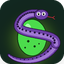
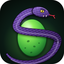
v2.2.3 - Ny ikon ritad i SVG och renderad med Edge: Ula'tek med fjäll, ormöga och huggtänder runt ett glödande grönt ägg. Logotyp i README, addonlistans ikon och GitHub-förhandsbild.

diff --git a/tools/make_icon.py b/tools/make_icon.py
@@ -1,25 +1,26 @@
-r"""Ritar UlatekEggs-ikonen: Ula'tek (orm) slingrad runt ett grönt ägg.
+r"""Bygger UlatekEggs-ikonen som SVG (Ula'tek slingrad runt ett glödande ägg)
+och renderar den till PNG med Edge headless.
 
-    python tools\make_icon.py
+    python tools/make_icon.py
 
-Skapar docs/logo.png (512x512), docs/social-preview.png (1280x640, laddas upp
-manuellt under GitHub > Settings > Social preview) och Media/icon.png (64x64,
-addonlistans ikon via ## IconTexture).
+Skapar docs/icon.svg, docs/logo.png (512), docs/social-preview.png (1280x640,
+laddas upp manuellt under GitHub > Settings > Social preview) och Media/icon.png
+(64, addonlistans ikon). Ormkroppen beräknas som en avsmalnande polygon längs
+en bezierkedja så att fyllning, gradient och fjällmönster kan läggas på i SVG.
 """
 import math
 import pathlib
+import subprocess
+import tempfile
+import time
 
-from PIL import Image, ImageDraw, ImageFilter, ImageFont
+from PIL import Image
 
 ROOT = pathlib.Path(__file__).resolve().parent.parent
-S = 4  # supersampling
-
-BG, GOO = (18, 40, 32), (120, 190, 40)
-SNAKE, SNAKE_DARK, SNAKE_BELLY = (108, 64, 165), (40, 20, 65), (160, 120, 210)
-EGG, EGG_DARK, EGG_LIGHT = (76, 220, 76), (20, 60, 20), (170, 250, 170)
+EDGE = r"C:\Program Files (x86)\Microsoft\Edge\Application\msedge.exe"
 
 
-def bezier(p0, p1, p2, p3, n=300):
+def bezier(p0, p1, p2, p3, n=120):
     pts = []
     for i in range(n + 1):
         t = i / n
@@ -29,98 +30,166 @@ def bezier(p0, p1, p2, p3, n=300):
     return pts
 
 
-def stroke(draw, pts, radii, color):
-    for (x, y), r in zip(pts, radii):
-        draw.ellipse((x - r, y - r, x + r, y + r), fill=color)
+def ribbon(pts, width_at):
+    """Polygon runt en mittlinje: bredd width_at(t) (t 0..1) per punkt."""
+    n = len(pts)
+    left, right = [], []
+    for i, (x, y) in enumerate(pts):
+        x0, y0 = pts[max(i - 1, 0)]
+        x1, y1 = pts[min(i + 1, n - 1)]
+        dx, dy = x1 - x0, y1 - y0
+        length = math.hypot(dx, dy) or 1
+        nx, ny = -dy / length, dx / length
+        w = width_at(i / (n - 1)) / 2
+        left.append((x + nx * w, y + ny * w))
+        right.append((x - nx * w, y - ny * w))
+    poly = left + right[::-1]
+    return "M " + " L ".join(f"{x:.1f},{y:.1f}" for x, y in poly) + " Z"
 
 
-def draw_art(size):
-    """Ikonen i given storlek (kvadrat), ritad i supersampling och nedskalad."""
-    W = size * S
-    im = Image.new("RGBA", (W, W), (0, 0, 0, 0))
-    d = ImageDraw.Draw(im)
-    u = W / 512  # enhet: 512-koordinater
+def centerline(pts):
+    return "M " + " L ".join(f"{x:.1f},{y:.1f}" for x, y in pts)
 
-    # bakgrund: rundad platta med grön goo-glöd
-    d.rounded_rectangle((0, 0, W - 1, W - 1), radius=90 * u, fill=BG)
-    glow = Image.new("RGBA", (W, W), (0, 0, 0, 0))
-    gd = ImageDraw.Draw(glow)
-    gd.ellipse((60 * u, 120 * u, 452 * u, 512 * u), fill=GOO + (150,))
-    glow = glow.filter(ImageFilter.GaussianBlur(70 * u))
-    im.alpha_composite(glow)
-    d = ImageDraw.Draw(im)
 
-    # ormens bana: bakre del (bakom ägget) och främre del (framför)
-    back = bezier((70 * u, 440 * u), (150 * u, 520 * u), (380 * u, 500 * u), (445 * u, 350 * u))
-    front = bezier((445 * u, 350 * u), (470 * u, 250 * u), (110 * u, 290 * u), (150 * u, 190 * u)) + \
-        bezier((150 * u, 190 * u), (175 * u, 120 * u), (260 * u, 90 * u), (330 * u, 118 * u))[1:]
-    n_back, n_front = len(back), len(front)
-    r_back = [(6 + 26 * i / n_back) * u for i in range(n_back)]
-    r_front = [(32 - 4 * i / n_front) * u for i in range(n_front)]
+def build_svg(plate=True):
+    # Kroppen: svans nere till vänster, bakom ägget nedtill, upp på höger sida,
+    # framför ägget snett upp åt vänster, upp till huvudet uppe till höger.
+    back = bezier((54, 430), (120, 540), (420, 530), (462, 330), n=160)
+    front = bezier((462, 330), (480, 220), (90, 300), (132, 190), n=160) + \
+        bezier((132, 190), (160, 110), (250, 70), (318, 96), n=120)[1:]
+    back_poly = ribbon(back, lambda t: 10 + 46 * t)
+    front_poly = ribbon(front, lambda t: 56 - 8 * t)
+    back_belly = centerline([(x + 2, y + 9) for x, y in back[20:]])
+    front_belly = centerline([(x + 2, y + 9) for x, y in front[:-25]])
 
-    def body(pts, radii):
-        stroke(d, pts, [r + 5 * u for r in radii], SNAKE_DARK)
-        stroke(d, pts, radii, SNAKE)
-        # ljusare buk: tunnare linje något förskjuten
-        stroke(d, [(x + 3 * u, y + 6 * u) for x, y in pts], [r * 0.45 for r in radii], SNAKE_BELLY)
-        # fjällmönster: mörka prickar längs ryggen
-        for i in range(0, len(pts), 22):
-            x, y = pts[i]
-            rr = radii[i] * 0.22
-            d.ellipse((x - rr - 8 * u, y - rr - 9 * u, x + rr - 8 * u, y + rr - 9 * u), fill=SNAKE_DARK)
+    return f"""<svg xmlns="http://www.w3.org/2000/svg" viewBox="0 0 512 512" width="512" height="512">
+<defs>
+  <radialGradient id="bg" cx="50%" cy="58%" r="70%">
+    <stop offset="0" stop-color="#15362a"/><stop offset="1" stop-color="#050b08"/>
+  </radialGradient>
+  <radialGradient id="glow" cx="50%" cy="50%" r="50%">
+    <stop offset="0" stop-color="#9dff3c" stop-opacity="0.55"/><stop offset="0.6" stop-color="#5ab52a" stop-opacity="0.18"/><stop offset="1" stop-color="#5ab52a" stop-opacity="0"/>
+  </radialGradient>
+  <radialGradient id="egg" cx="38%" cy="28%" r="78%">
+    <stop offset="0" stop-color="#e9ffd6"/><stop offset="0.25" stop-color="#8ef05a"/><stop offset="0.7" stop-color="#3aa83a"/><stop offset="1" stop-color="#145a24"/>
+  </radialGradient>
+  <linearGradient id="skin" x1="0" y1="0" x2="1" y2="1">
+    <stop offset="0" stop-color="#8f67d8"/><stop offset="0.5" stop-color="#5a3496"/><stop offset="1" stop-color="#2d1650"/>
+  </linearGradient>
+  <linearGradient id="head" x1="0" y1="0" x2="1" y2="1">
+    <stop offset="0" stop-color="#a07be8"/><stop offset="1" stop-color="#3b1f66"/>
+  </linearGradient>
+  <pattern id="scales" width="22" height="16" patternUnits="userSpaceOnUse" patternTransform="rotate(-25)">
+    <path d="M0,0 Q11,10 22,0 L22,16 Q11,6 0,16 Z" fill="#000" fill-opacity="0.22"/>
+    <path d="M0,0 Q11,10 22,0" fill="none" stroke="#d9c9ff" stroke-opacity="0.35" stroke-width="1.6"/>
+  </pattern>
+  <filter id="shadow" x="-20%" y="-20%" width="140%" height="140%">
+    <feDropShadow dx="0" dy="8" stdDeviation="8" flood-color="#000" flood-opacity="0.6"/>
+  </filter>
+  <filter id="soft" x="-50%" y="-50%" width="200%" height="200%"><feGaussianBlur stdDeviation="12"/></filter>
+  <clipPath id="eggclip"><ellipse cx="256" cy="302" rx="118" ry="150"/></clipPath>
+</defs>
 
-    body(back, r_back)
+{'<rect width="512" height="512" rx="96" fill="url(#bg)"/>' if plate else ''}
+<ellipse cx="256" cy="330" rx="230" ry="200" fill="url(#glow)"/>
 
-    # ägget
-    ex, ey, rx, ry = 256 * u, 300 * u, 112 * u, 142 * u
-    d.ellipse((ex - rx - 7 * u, ey - ry - 7 * u, ex + rx + 7 * u, ey + ry + 7 * u), fill=EGG_DARK)
-    d.ellipse((ex - rx, ey - ry, ex + rx, ey + ry), fill=EGG)
-    d.ellipse((ex - 60 * u, ey - 110 * u, ex - 10 * u, ey - 40 * u), fill=EGG_LIGHT)  # glans
-    for sx, sy, sr in ((-30, 30, 9), (35, -10, 7), (20, 70, 8), (-55, 80, 6), (55, 50, 5)):
-        d.ellipse((ex + sx * u - sr * u, ey + sy * u - sr * u, ex + sx * u + sr * u, ey + sy * u + sr * u), fill=EGG_DARK)
+<!-- bakre kroppen -->
+<g filter="url(#shadow)">
+  <path d="{back_poly}" fill="#1a0b33"/>
+  <path d="{back_poly}" fill="url(#skin)" transform="translate(0,0)" style="paint-order:stroke" stroke="#1a0b33" stroke-width="6"/>
+  <path d="{back_poly}" fill="url(#scales)"/>
+  <path d="{back_belly}" fill="none" stroke="#e2d4ff" stroke-opacity="0.28" stroke-width="12" stroke-linecap="round"/>
+</g>
 
-    body(front, r_front)
+<!-- ägget -->
+<g filter="url(#shadow)">
+  <ellipse cx="256" cy="302" rx="118" ry="150" fill="url(#egg)" stroke="#0b3a16" stroke-width="7"/>
+  <g clip-path="url(#eggclip)" fill="#0f4a1b" fill-opacity="0.55">
+    <ellipse cx="226" cy="330" rx="11" ry="8" transform="rotate(-20 226 330)"/>
+    <ellipse cx="292" cy="290" rx="8" ry="6" transform="rotate(30 292 290)"/>
+    <ellipse cx="275" cy="372" rx="10" ry="7" transform="rotate(10 275 372)"/>
+    <ellipse cx="202" cy="384" rx="7" ry="5"/>
+    <ellipse cx="312" cy="345" rx="6" ry="5"/>
+    <ellipse cx="250" cy="420" rx="9" ry="6" transform="rotate(-15 250 420)"/>
+  </g>
+  <ellipse cx="214" cy="212" rx="34" ry="52" fill="#ffffff" fill-opacity="0.35" transform="rotate(-18 214 212)" filter="url(#soft)"/>
+</g>
 
-    # huvud
-    hx, hy = 330 * u, 118 * u
-    d.ellipse((hx - 58 * u, hy - 44 * u, hx + 58 * u, hy + 40 * u), fill=SNAKE_DARK)
-    d.ellipse((hx - 52 * u, hy - 38 * u, hx + 52 * u, hy + 34 * u), fill=SNAKE)
-    for ox in (-22, 18):  # ögon
-        d.ellipse((hx + ox * u - 14 * u, hy - 22 * u, hx + ox * u + 14 * u, hy + 6 * u), fill=(255, 255, 255))
-        d.ellipse((hx + ox * u - 5 * u, hy - 18 * u, hx + ox * u + 7 * u, hy + 2 * u), fill=(10, 10, 10))
-        d.ellipse((hx + ox * u - 1 * u, hy - 15 * u, hx + ox * u + 4 * u, hy - 10 * u), fill=(255, 255, 255))
-    # kluven tunga
-    tx, ty = hx + 50 * u, hy + 14 * u
-    d.line([(tx, ty), (tx + 40 * u, ty + 8 * u)], fill=(230, 40, 60), width=int(6 * u))
-    d.line([(tx + 40 * u, ty + 8 * u), (tx + 56 * u, ty - 4 * u)], fill=(230, 40, 60), width=int(5 * u))
-    d.line([(tx + 40 * u, ty + 8 * u), (tx + 56 * u, ty + 20 * u)], fill=(230, 40, 60), width=int(5 * u))
+<!-- främre kroppen -->
+<g filter="url(#shadow)">
+  <path d="{front_poly}" fill="url(#skin)" stroke="#1a0b33" stroke-width="6" style="paint-order:stroke"/>
+  <path d="{front_poly}" fill="url(#scales)"/>
+  <path d="{front_belly}" fill="none" stroke="#e2d4ff" stroke-opacity="0.28" stroke-width="12" stroke-linecap="round"/>
+</g>
 
-    return im.resize((size, size), Image.LANCZOS)
+<!-- huvudet: kilformat, vänt åt höger -->
+<g transform="translate(318,96) rotate(12)" filter="url(#shadow)">
+  <path d="M-52,-26 C-20,-50 40,-46 76,-8 C86,2 86,10 76,16 C40,42 -20,44 -52,22 C-64,12 -64,-14 -52,-26 Z" fill="url(#head)" stroke="#1a0b33" stroke-width="6"/>
+  <path d="M-52,-26 C-20,-50 40,-46 76,-8 C86,2 86,10 76,16 C40,42 -20,44 -52,22 C-64,12 -64,-14 -52,-26 Z" fill="url(#scales)" fill-opacity="0.7"/>
+  <path d="M-30,-30 C0,-44 36,-40 62,-18" fill="none" stroke="#c7b2ff" stroke-opacity="0.5" stroke-width="5" stroke-linecap="round"/>
+  <!-- öga: gult med vertikal pupill -->
+  <ellipse cx="18" cy="-10" rx="15" ry="11" fill="#f6e23a" stroke="#1a0b33" stroke-width="3"/>
+  <ellipse cx="19" cy="-10" rx="3.5" ry="9" fill="#0a0a0a"/>
+  <circle cx="14" cy="-14" r="2.5" fill="#fff" fill-opacity="0.9"/>
+  <!-- ögonbrynsplåt -->
+  <path d="M0,-24 C10,-30 30,-28 40,-20" fill="none" stroke="#1a0b33" stroke-width="5" stroke-linecap="round"/>
+  <!-- huggtänder -->
+  <path d="M52,14 L58,34 L64,14 Z" fill="#f4f0e6" stroke="#1a0b33" stroke-width="2"/>
+  <path d="M30,20 L36,38 L42,20 Z" fill="#f4f0e6" stroke="#1a0b33" stroke-width="2"/>
+  <!-- kluven tunga -->
+  <path d="M80,6 C100,8 110,8 122,2 M110,6 C118,12 124,18 128,24" fill="none" stroke="#e8304a" stroke-width="5" stroke-linecap="round"/>
+</g>
+</svg>
+"""
+
+
+def render(svg_or_html: str, out: pathlib.Path, w: int, h: int, scale: int = 2):
+    """Edge returnerar direkt och skriver skärmbilden i bakgrunden, så sidan och
+    profilen måste överleva anropet och vi väntar in filen."""
+    work = pathlib.Path(tempfile.gettempdir()) / "UlatekEggs-edge"
+    work.mkdir(exist_ok=True)
+    page = work / f"{out.stem}.html"
+    page.write_text(svg_or_html, encoding="utf-8")
+    if out.exists():
+        out.unlink()
+    subprocess.run([EDGE, "--headless=new", "--no-sandbox", "--disable-gpu", "--hide-scrollbars", "--no-first-run",
+                    f"--user-data-dir={work / 'profile'}", f"--force-device-scale-factor={scale}", f"--window-size={w},{h}",
+                    f"--screenshot={out}", page.as_uri()], check=True, capture_output=True, timeout=90)
+    last = -1
+    for _ in range(60):
+        time.sleep(1)
+        size = out.stat().st_size if out.exists() else -1
+        if size > 0 and size == last:
+            return
+        last = size
+    raise RuntimeError(f"Edge skrev ingen skärmbild till {out}")
 
 
 def main():
     docs = ROOT / "docs"
     docs.mkdir(exist_ok=True)
-    logo = draw_art(512)
-    logo.save(docs / "logo.png")
-    draw_art(64).save(ROOT / "Media" / "icon.png")
+    svg = build_svg()
+    (docs / "icon.svg").write_text(svg, encoding="utf-8")
+    page = f"<html><body style='margin:0;background:transparent'>{svg}</body></html>"
+    big = docs / "logo_1024.png"
+    render(page, big, 512, 512, scale=2)
+    im = Image.open(big).convert("RGBA")
+    im.resize((512, 512), Image.LANCZOS).save(docs / "logo.png")
+    im.resize((64, 64), Image.LANCZOS).save(ROOT / "Media" / "icon.png")
+    big.unlink()
 
-    # Social preview 1280x640: ikon till vänster, text till höger
-    sp = Image.new("RGBA", (1280, 640), BG + (255,))
-    sp.alpha_composite(logo.resize((480, 480), Image.LANCZOS), (80, 80))
-    d = ImageDraw.Draw(sp)
-    fonts = pathlib.Path(r"C:\Windows\Fonts")
-    big = ImageFont.truetype(str(fonts / "segoeuib.ttf"), 96)
-    mid = ImageFont.truetype(str(fonts / "segoeui.ttf"), 44)
-    small = ImageFont.truetype(str(fonts / "segoeui.ttf"), 32)
-    d.text((620, 170), "UlatekEggs", font=big, fill=(255, 255, 255))
-    d.text((624, 290), "Ditt ägg i fas 2 på Ula'tek", font=mid, fill=EGG)
-    d.text((624, 350), "WoW-addon av Tjocksmock", font=small, fill=(220, 220, 220))
-    d.text((624, 395), "For Science", font=small, fill=(255, 209, 0))
-    d.text((624, 470), "WowUp: Install from URL", font=small, fill=(170, 170, 170))
-    d.text((624, 510), "github.com/nucce1/UlatekEggs", font=small, fill=(170, 170, 170))
-    sp.convert("RGB").save(docs / "social-preview.png")
-    print("ok:", docs / "logo.png", docs / "social-preview.png", ROOT / "Media" / "icon.png")
+    preview = f"""<html><body style="margin:0;width:1280px;height:640px;background:radial-gradient(ellipse at 30% 50%,#15362a,#050b08 70%);
+font-family:'Segoe UI',Arial,sans-serif;color:#fff;position:relative;overflow:hidden">
+<div style="position:absolute;left:60px;top:40px;width:560px;height:560px">{build_svg(plate=False).replace('width="512" height="512"', 'width="560" height="560"')}</div>
+<div style="position:absolute;left:640px;top:150px">
+  <div style="font-size:92px;font-weight:700;letter-spacing:-1px;line-height:1">UlatekEggs</div>
+  <div style="font-size:40px;color:#8ef05a;margin-top:18px">Ditt ägg i fas 2 på Ula'tek</div>
+  <div style="font-size:30px;color:#ddd;margin-top:26px">WoW-addon av Tjocksmock</div>
+  <div style="font-size:30px;color:#ffd100">For Science</div>
+  <div style="font-size:26px;color:#9a9a9a;margin-top:50px">WowUp → Install from URL<br>github.com/nucce1/UlatekEggs</div>
+</div></body></html>"""
+    render(preview, docs / "social-preview.png", 1280, 640, scale=1)
+    print("ok:", docs / "icon.svg", docs / "logo.png", docs / "social-preview.png", ROOT / "Media" / "icon.png")
 
 
 if __name__ == "__main__":
